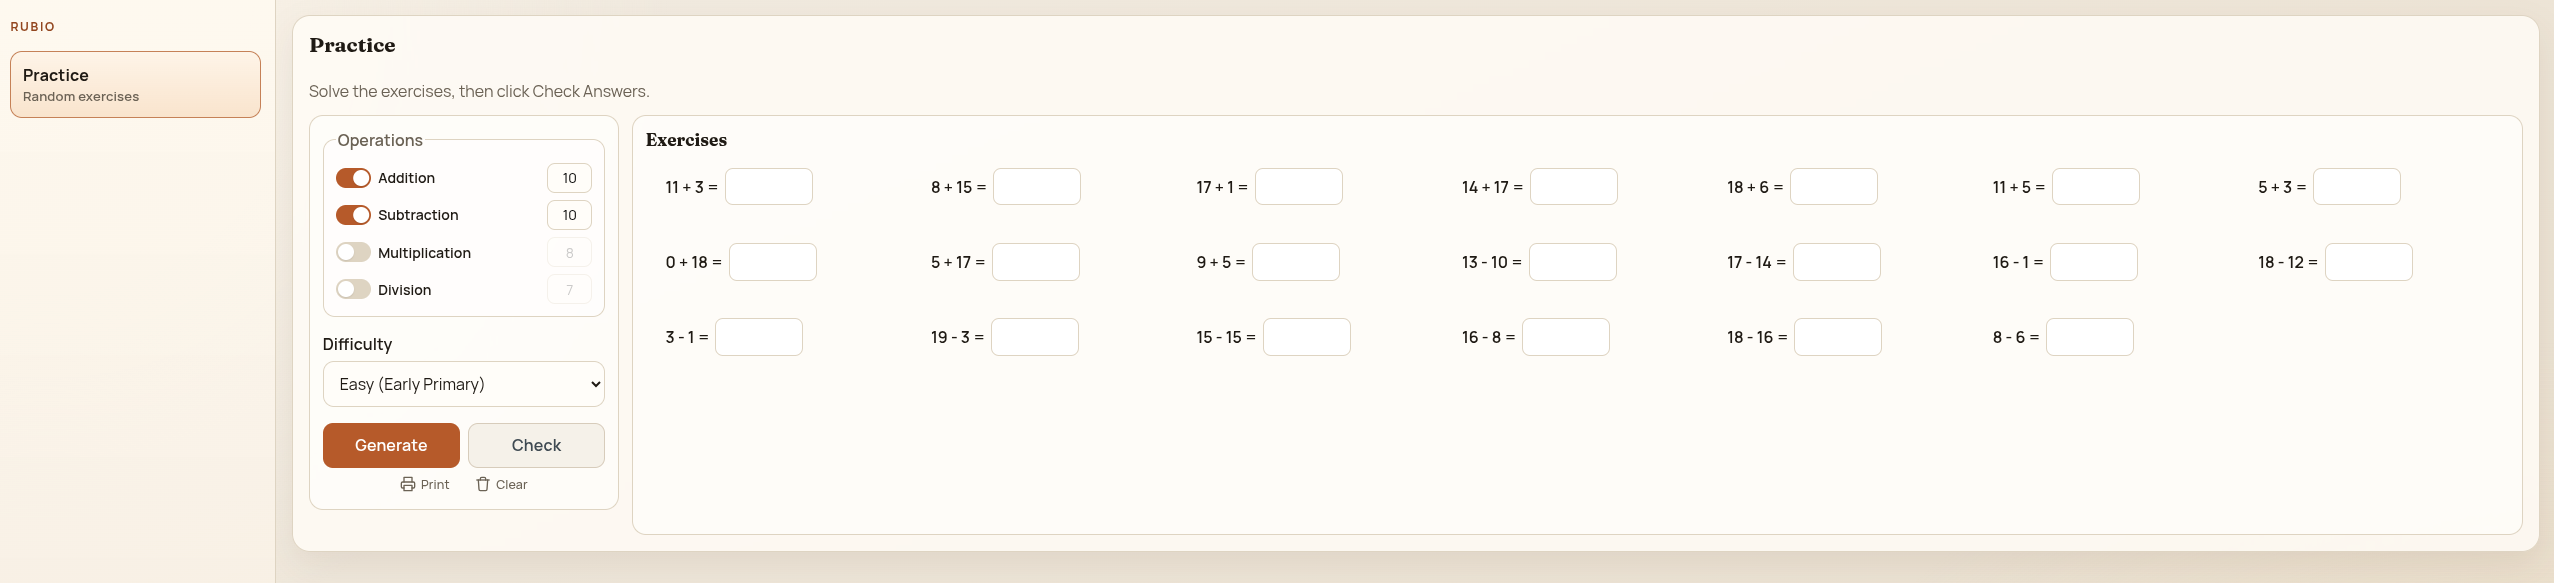
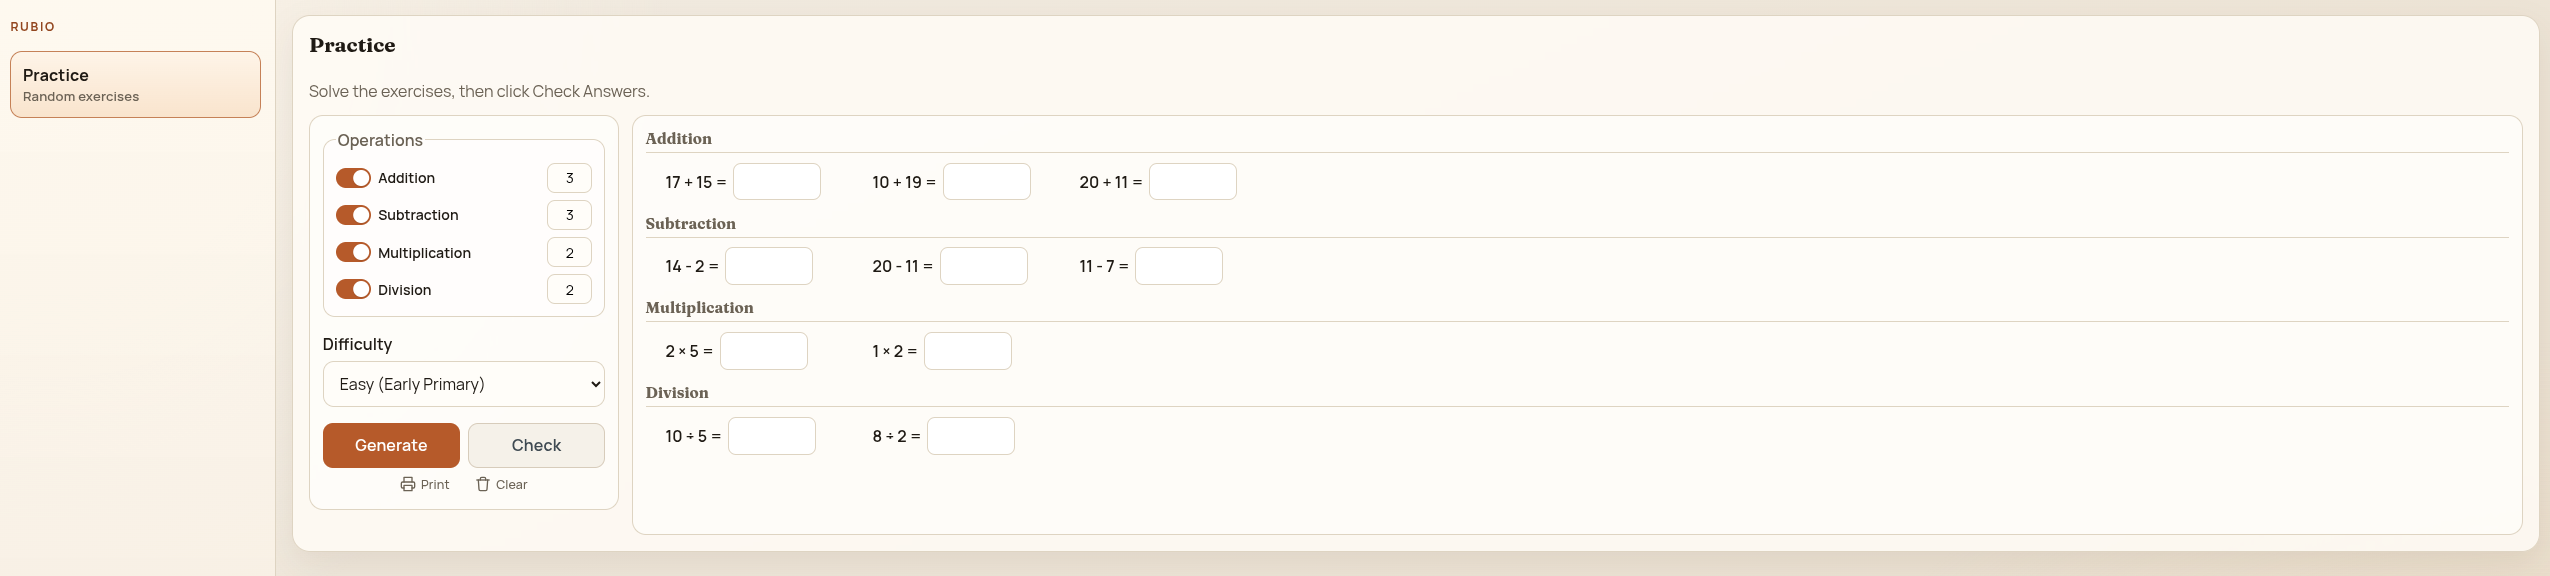
feat: update design

diff --git a/src/App.jsx b/src/App.jsx
@@ -351,33 +351,41 @@ function App() {
             </form>
 
             <section className="exercise-sheet">
-              <div className="exercise-header">
-                <h3>Exercises</h3>
-              </div>
-              <ol id="exercise-list">
-                {exercises.map((exercise, index) => {
-                  const result = results[index];
-                  return (
-                    <li className="exercise-item" key={`${exercise.text}-${index}`}>
-                      <label htmlFor={`answer-${index}`}>{exercise.text}</label>
-                      <input
-                        id={`answer-${index}`}
-                        type="number"
-                        inputMode="numeric"
-                        autoComplete="off"
-                        value={answers[index] ?? ''}
-                        onChange={(event) => {
-                          const value = event.target.value;
-                          setAnswers((prev) => ({ ...prev, [index]: value }));
-                        }}
-                      />
-                      <span className={`result ${result ? (result.isCorrect ? 'ok' : 'bad') : ''}`}>
-                        {result ? result.text : ''}
-                      </span>
-                    </li>
-                  );
-                })}
-              </ol>
+              {writtenGroups.length === 0 && (
+                <div className="exercise-header">
+                  <h3>Exercises</h3>
+                </div>
+              )}
+              {writtenGroups.map((group) => (
+                <div className="exercise-group" key={group.operation}>
+                  <h3>{group.label}</h3>
+                  <ol className="exercise-list">
+                    {group.items.map((exercise) => {
+                      const globalIndex = exercise.number - 1;
+                      const result = results[globalIndex];
+                      return (
+                        <li className="exercise-item" key={`${exercise.text}-${globalIndex}`}>
+                          <label htmlFor={`answer-${globalIndex}`}>{exercise.text}</label>
+                          <input
+                            id={`answer-${globalIndex}`}
+                            type="number"
+                            inputMode="numeric"
+                            autoComplete="off"
+                            value={answers[globalIndex] ?? ''}
+                            onChange={(event) => {
+                              const value = event.target.value;
+                              setAnswers((prev) => ({ ...prev, [globalIndex]: value }));
+                            }}
+                          />
+                          <span className={`result ${result ? (result.isCorrect ? 'ok' : 'bad') : ''}`}>
+                            {result ? result.text : ''}
+                          </span>
+                        </li>
+                      );
+                    })}
+                  </ol>
+                </div>
+              ))}
             </section>
           </div>
 

diff --git a/src/styles.css b/src/styles.css
@@ -39,10 +39,10 @@ body {
 }
 
 .app-shell {
-  width: 100vw;
+  width: 100%;
   min-height: 100vh;
   display: grid;
-  grid-template-columns: 280px 1fr;
+  grid-template-columns: 280px minmax(0, 1fr);
 }
 
 .sidebar {
@@ -114,7 +114,9 @@ h3 {
 
 .content-area {
   padding: 1rem;
-  overflow: auto;
+  overflow-y: auto;
+  overflow-x: hidden;
+  min-width: 0;
 }
 
 .panel {
@@ -159,7 +161,7 @@ h3 {
 
 .workspace-grid {
   display: grid;
-  grid-template-columns: 310px 1fr;
+  grid-template-columns: 310px minmax(0, 1fr);
   gap: 0.8rem;
   align-items: start;
 }
@@ -390,6 +392,8 @@ button:active {
 .exercise-sheet {
   padding: 0.8rem;
   min-height: 420px;
+  min-width: 0;
+  overflow: hidden;
 }
 
 .exercise-header {
@@ -399,23 +403,31 @@ button:active {
   gap: 0.6rem;
 }
 
-#exercise-list {
+.exercise-group {
+  margin-bottom: 0.6rem;
+}
+
+.exercise-group h3 {
+  margin-bottom: 0.4rem;
+  font-size: 0.95rem;
+  color: var(--muted);
+  border-bottom: 1px solid var(--line);
+  padding-bottom: 0.25rem;
+}
+
+.exercise-list {
   margin: 0;
   padding-left: 1.25rem;
-  display: grid;
-  grid-template-columns: repeat(auto-fit, minmax(250px, 1fr));
-  gap: 0.5rem 0.9rem;
-  align-content: start;
+  columns: 180px;
+  column-gap: 1.2rem;
 }
 
 .exercise-item {
-  display: grid;
-  grid-template-columns: max-content 88px;
+  display: flex;
   align-items: center;
-  justify-content: start;
-  column-gap: 0.35rem;
-  row-gap: 0.2rem;
+  gap: 0.35rem;
   padding: 0.22rem 0;
+  break-inside: avoid;
 }
 
 .exercise-item label {
@@ -424,7 +436,7 @@ button:active {
 }
 
 .exercise-item input {
-  width: 100%;
+  width: 88px;
   padding: 0.43rem 0.58rem;
   border-radius: 8px;
   border: 1px solid var(--line);
@@ -435,7 +447,7 @@ button:active {
 .result {
   font-weight: 700;
   min-height: 1.2em;
-  grid-column: 1 / -1;
+  margin-left: 0.3rem;
 }
 
 .result.ok {
@@ -549,19 +561,6 @@ button:active {
     position: static;
   }
 
-  #exercise-list {
-    grid-template-columns: repeat(auto-fit, minmax(220px, 1fr));
-  }
-}
-
-@media (max-width: 640px) {
-  #exercise-list {
-    grid-template-columns: 1fr;
-  }
-
-  .exercise-item {
-    grid-template-columns: 1fr;
-  }
 }
 
 @media print {
